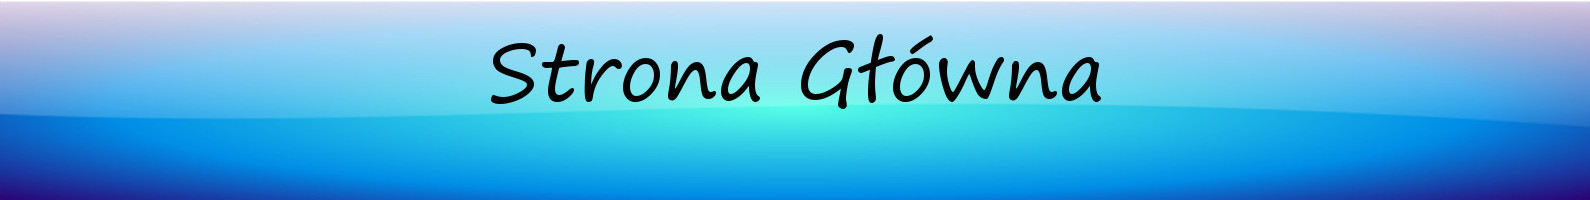
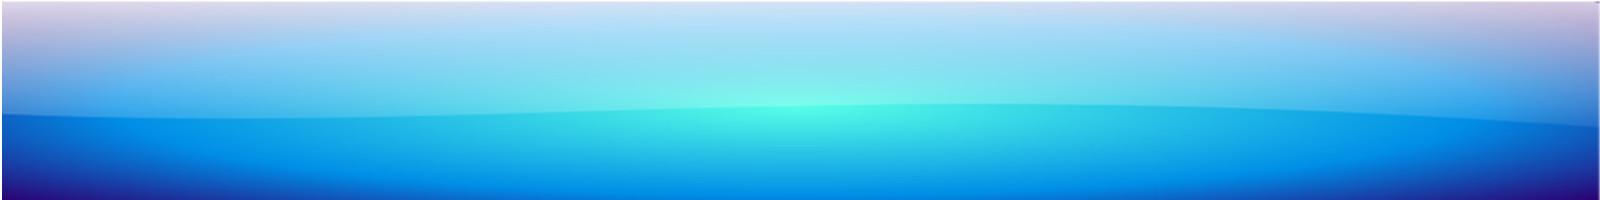
strona /home

Changed region(s): [[0.3082, 0.18, 0.7088, 0.54]]

diff --git a/home/rssfiz.show/src/main/webapp/css/home.css b/home/rssfiz.show/src/main/webapp/css/home.css
@@ -7,19 +7,17 @@ footer {
 }
 
 h1 {
-	color: rgb(200, 0, 0);
-	text-align: left;
-	font-size: 52px;
+	color: rgb(255, 255, 255);
+	text-align: center;
+	font-size: 50px;
+	background: url(../images/home/tytul.jpg);
+	width: 1600px;
+	height: 200px;
+	line-height: 200px;
+	font-family:Segoe UI Bold Italic;
 }
 
 .news {
-	color: rgb(236, 236, 0);
-	
-	font-size: 22px;
-	background-color: black;
-}
-
-.news2 {
 	color: rgb(236, 0, 0);
 	font-size: 22px;
 	background-color: black;
@@ -38,19 +36,21 @@ li a {
 	display: block;
 	float: left;
 	text-align: center;
-	font-size: 1.2em;
+	line-height: 100px;
+	font-size: 1.5em;
+	color: white;
 	width: 200px;
+	height: 100px;
 	text-decoration: none;
-	color: aqua;
+	background: url(../images/home/blue.png);
 	padding: 0.9px 0.9px;
 	margin: 0px 1px 1px 0px;
 	border-radius: 10px;
 	-moz-border-radius: 10px;
 	-webkit-border-radius: 10px;
+	width: 200px;
 }
 
 li a:hover {
-	color: blue;
-	background: gold;
-	border: 1px solid blue;
+	background: url(../images/home/blue2.png);
 }
